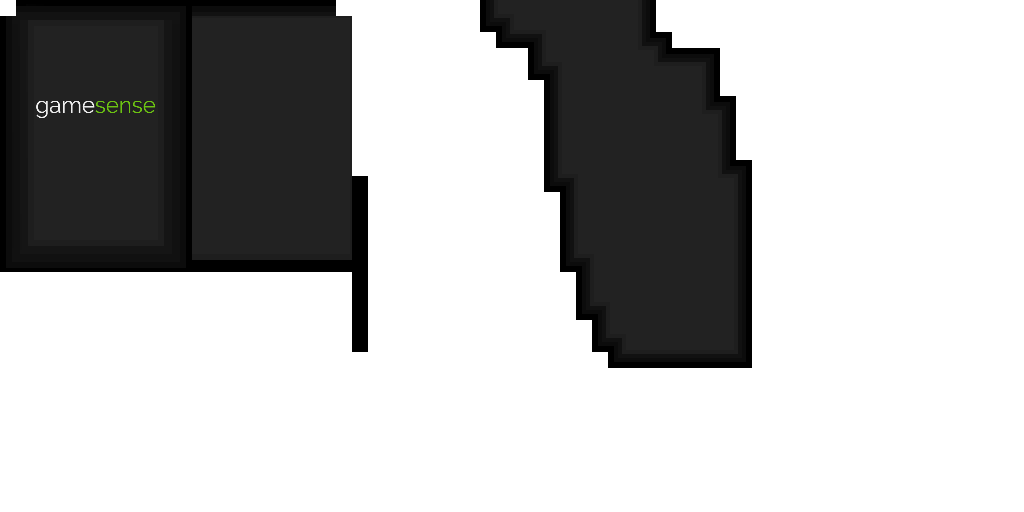
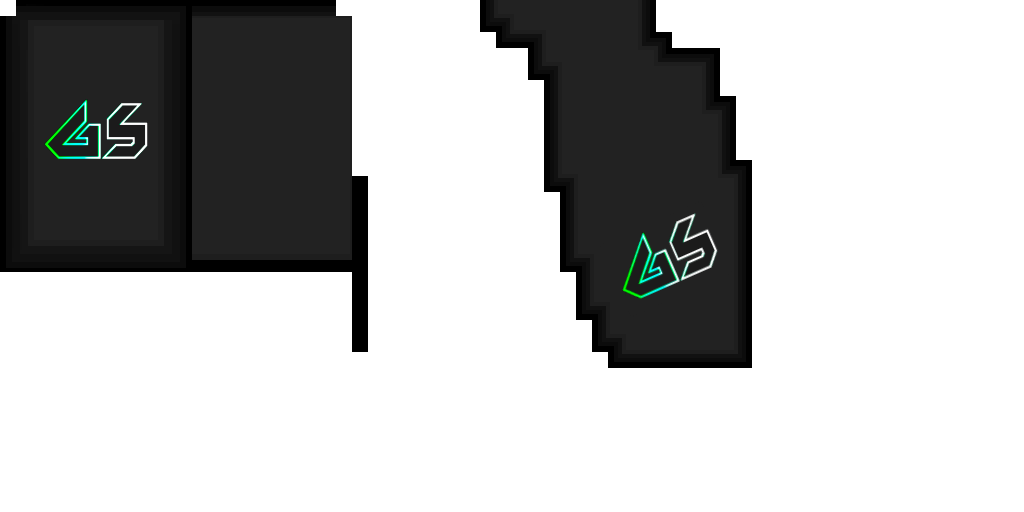
Updated image assets, fixed/improved SkyColor

Changed region(s): [[0.0312, 0.1875, 0.1562, 0.3125], [0.5938, 0.4062, 0.7188, 0.5938]]

diff --git a/src/main/java/com/gamesense/client/module/ModuleManager.java b/src/main/java/com/gamesense/client/module/ModuleManager.java
@@ -2,8 +2,6 @@ package com.gamesense.client.module;
 
 import java.util.ArrayList;
 import java.util.stream.Collectors;
-
-import com.gamesense.client.module.modules.render.*;
 import org.lwjgl.input.Keyboard;
 
 import com.gamesense.api.event.events.RenderEvent;
@@ -61,6 +59,23 @@ import com.gamesense.client.module.modules.movement.ReverseStep;
 import com.gamesense.client.module.modules.movement.Speed;
 import com.gamesense.client.module.modules.movement.Sprint;
 import com.gamesense.client.module.modules.movement.Step;
+import com.gamesense.client.module.modules.render.BlockHighlight;
+import com.gamesense.client.module.modules.render.CapesModule;
+import com.gamesense.client.module.modules.render.CityESP;
+import com.gamesense.client.module.modules.render.ESP;
+import com.gamesense.client.module.modules.render.Freecam;
+import com.gamesense.client.module.modules.render.Fullbright;
+import com.gamesense.client.module.modules.render.HitSpheres;
+import com.gamesense.client.module.modules.render.HoleESP;
+import com.gamesense.client.module.modules.render.LogoutSpots;
+import com.gamesense.client.module.modules.render.Nametags;
+import com.gamesense.client.module.modules.render.NoRender;
+import com.gamesense.client.module.modules.render.RenderTweaks;
+import com.gamesense.client.module.modules.render.ShulkerViewer;
+import com.gamesense.client.module.modules.render.SkyColor;
+import com.gamesense.client.module.modules.render.Tracers;
+import com.gamesense.client.module.modules.render.ViewModel;
+import com.gamesense.client.module.modules.render.VoidESP;
 
 import net.minecraft.client.Minecraft;
 import net.minecraft.entity.Entity;
@@ -132,10 +147,10 @@ public class ModuleManager {
 		addMod(new NoRender());
 		addMod(new RenderTweaks());
 		addMod(new ShulkerViewer());
+		addMod(new SkyColor());
 		addMod(new Tracers());
 		addMod(new ViewModel());
 		addMod(new VoidESP());
-		addMod(new SkyColor());
 		//HUD
 		addMod(new ArmorHUD());
 		addMod(new ModuleArrayList());

diff --git a/src/main/java/com/gamesense/api/event/EventProcessor.java b/src/main/java/com/gamesense/api/event/EventProcessor.java
@@ -4,6 +4,9 @@ import java.io.IOException;
 import java.net.URL;
 import java.util.Map;
 
+import com.gamesense.api.util.render.GSColor;
+import com.gamesense.client.module.modules.render.SkyColor;
+import net.minecraftforge.client.event.*;
 import org.apache.commons.io.IOUtils;
 import org.json.simple.JSONArray;
 import org.json.simple.JSONObject;
@@ -26,14 +29,6 @@ import me.zero.alpine.listener.EventHandler;
 import me.zero.alpine.listener.Listener;
 import net.minecraft.client.Minecraft;
 import net.minecraft.network.play.server.SPacketPlayerListItem;
-import net.minecraftforge.client.event.ClientChatEvent;
-import net.minecraftforge.client.event.ClientChatReceivedEvent;
-import net.minecraftforge.client.event.DrawBlockHighlightEvent;
-import net.minecraftforge.client.event.InputUpdateEvent;
-import net.minecraftforge.client.event.PlayerSPPushOutOfBlocksEvent;
-import net.minecraftforge.client.event.RenderBlockOverlayEvent;
-import net.minecraftforge.client.event.RenderGameOverlayEvent;
-import net.minecraftforge.client.event.RenderWorldLastEvent;
 import net.minecraftforge.common.MinecraftForge;
 import net.minecraftforge.event.entity.living.LivingDamageEvent;
 import net.minecraftforge.event.entity.living.LivingDeathEvent;
@@ -107,6 +102,24 @@ public class EventProcessor {
 				Command.sendClientMessage(ChatFormatting.DARK_RED + "Error: " + e.getMessage());
 			}
 			//event.setMessage("");
+		}
+	}
+
+	@SubscribeEvent
+	public void onFogColorRender(EntityViewRenderEvent.FogColors event) {
+		if (ModuleManager.isModuleEnabled("SkyColor")) {
+			GSColor color = SkyColor.color.getValue();
+			event.setRed(color.getRed() / 255f);
+			event.setGreen(color.getGreen() / 255f);
+			event.setBlue(color.getBlue() / 255f);
+		}
+	}
+
+	@SubscribeEvent
+	public void fog(EntityViewRenderEvent.FogDensity event) {
+		if (ModuleManager.isModuleEnabled("SkyColor") && !SkyColor.fog.getValue()) {
+			event.setDensity(0);
+			event.setCanceled(true);
 		}
 	}
 

diff --git a/src/main/java/com/gamesense/client/module/modules/render/SkyColor.java b/src/main/java/com/gamesense/client/module/modules/render/SkyColor.java
@@ -1,40 +1,23 @@
 package com.gamesense.client.module.modules.render;
 
 import com.gamesense.api.settings.Setting;
+import com.gamesense.api.util.render.GSColor;
 import com.gamesense.client.module.Module;
-import net.minecraftforge.client.event.EntityViewRenderEvent;
-import net.minecraftforge.fml.common.eventhandler.SubscribeEvent;
-import net.minecraftforge.fml.relauncher.Side;
-import net.minecraftforge.fml.relauncher.SideOnly;
 
 public class SkyColor extends Module {
     public SkyColor() {
         super("SkyColor", Category.Render);
     }
 
-    Setting.Integer red;
-    Setting.Integer green;
-    Setting.Integer blue;
+    public static Setting.ColorSetting color;
+    public static Setting.Boolean fog;
 
     @Override
     public void setup(){
-        red = registerInteger("Red", "Red", 255, 0, 255);
-        green = registerInteger("Green", "Green", 255, 0, 255);
-        blue = registerInteger("Blue", "Blue", 255, 0, 255);
+        fog = registerBoolean("Fog", "Fog", true);
+        color = registerColor("Color", "Color", new GSColor(0, 255, 0, 255));
     }
 
-    @SideOnly(Side.CLIENT)
-    @SubscribeEvent
-    public void onFogColorRender(EntityViewRenderEvent.FogColors event) {
-        event.setRed(red.getValue() / 255f);
-        event.setGreen(green.getValue() / 255f);
-        event.setBlue(blue.getValue() / 255f);
-
-    }
-
-    @SubscribeEvent
-    public void fog(EntityViewRenderEvent.FogDensity event) {
-        event.setDensity(0);
-        event.setCanceled(true);
-    }
+    //check the event processor to see how this all works...
+    // probably a better way to do it, but hey it works.
 }

diff --git a/src/main/java/com/gamesense/client/clickgui/buttons/ColorComponent.java b/src/main/java/com/gamesense/client/clickgui/buttons/ColorComponent.java
@@ -50,8 +50,9 @@ public class ColorComponent extends Component {
             renderWidthB = 98 * set.getColor().getBrightness();
         }
         //rainbow
-        Renderer.drawModuleBox(this.parent.parent.getX(), this.parent.parent.getY() + this.offset + 17, this.parent.parent.getX() + this.parent.parent.getWidth(), this.parent.parent.getY() + this.offset + 33, set.getValue());
+        Renderer.drawModuleBox(this.parent.parent.getX(), this.parent.parent.getY() + this.offset + 17, this.parent.parent.getX() + this.parent.parent.getWidth(), this.parent.parent.getY() + this.offset + 33, set.getRainbow()? set.getValue() : Renderer.getSettingColor(hoveredA));
         FontUtils.drawStringWithShadow(ColorMain.customFont.getValue(),"Rainbow", this.parent.parent.getX() + 2, this.parent.parent.getY() + this.offset + 4+16, Renderer.getFontColor());
+
         //slider 1
         Renderer.drawSliderBox(true, this.parent.parent.getX(), this.parent.parent.getY() + this.offset + 1+32, this.parent.parent.getX() + (int)renderWidthR + 1, this.parent.parent.getY() + this.offset + 49, set.getValue());
         Renderer.drawSliderBox(false, this.parent.parent.getX() + (int)renderWidthR + 1, this.parent.parent.getY() + this.offset + 1+32, this.parent.parent.getX() + this.parent.parent.getWidth(), this.parent.parent.getY() + this.offset + 49, Renderer.getSettingColor(hoveredA));
